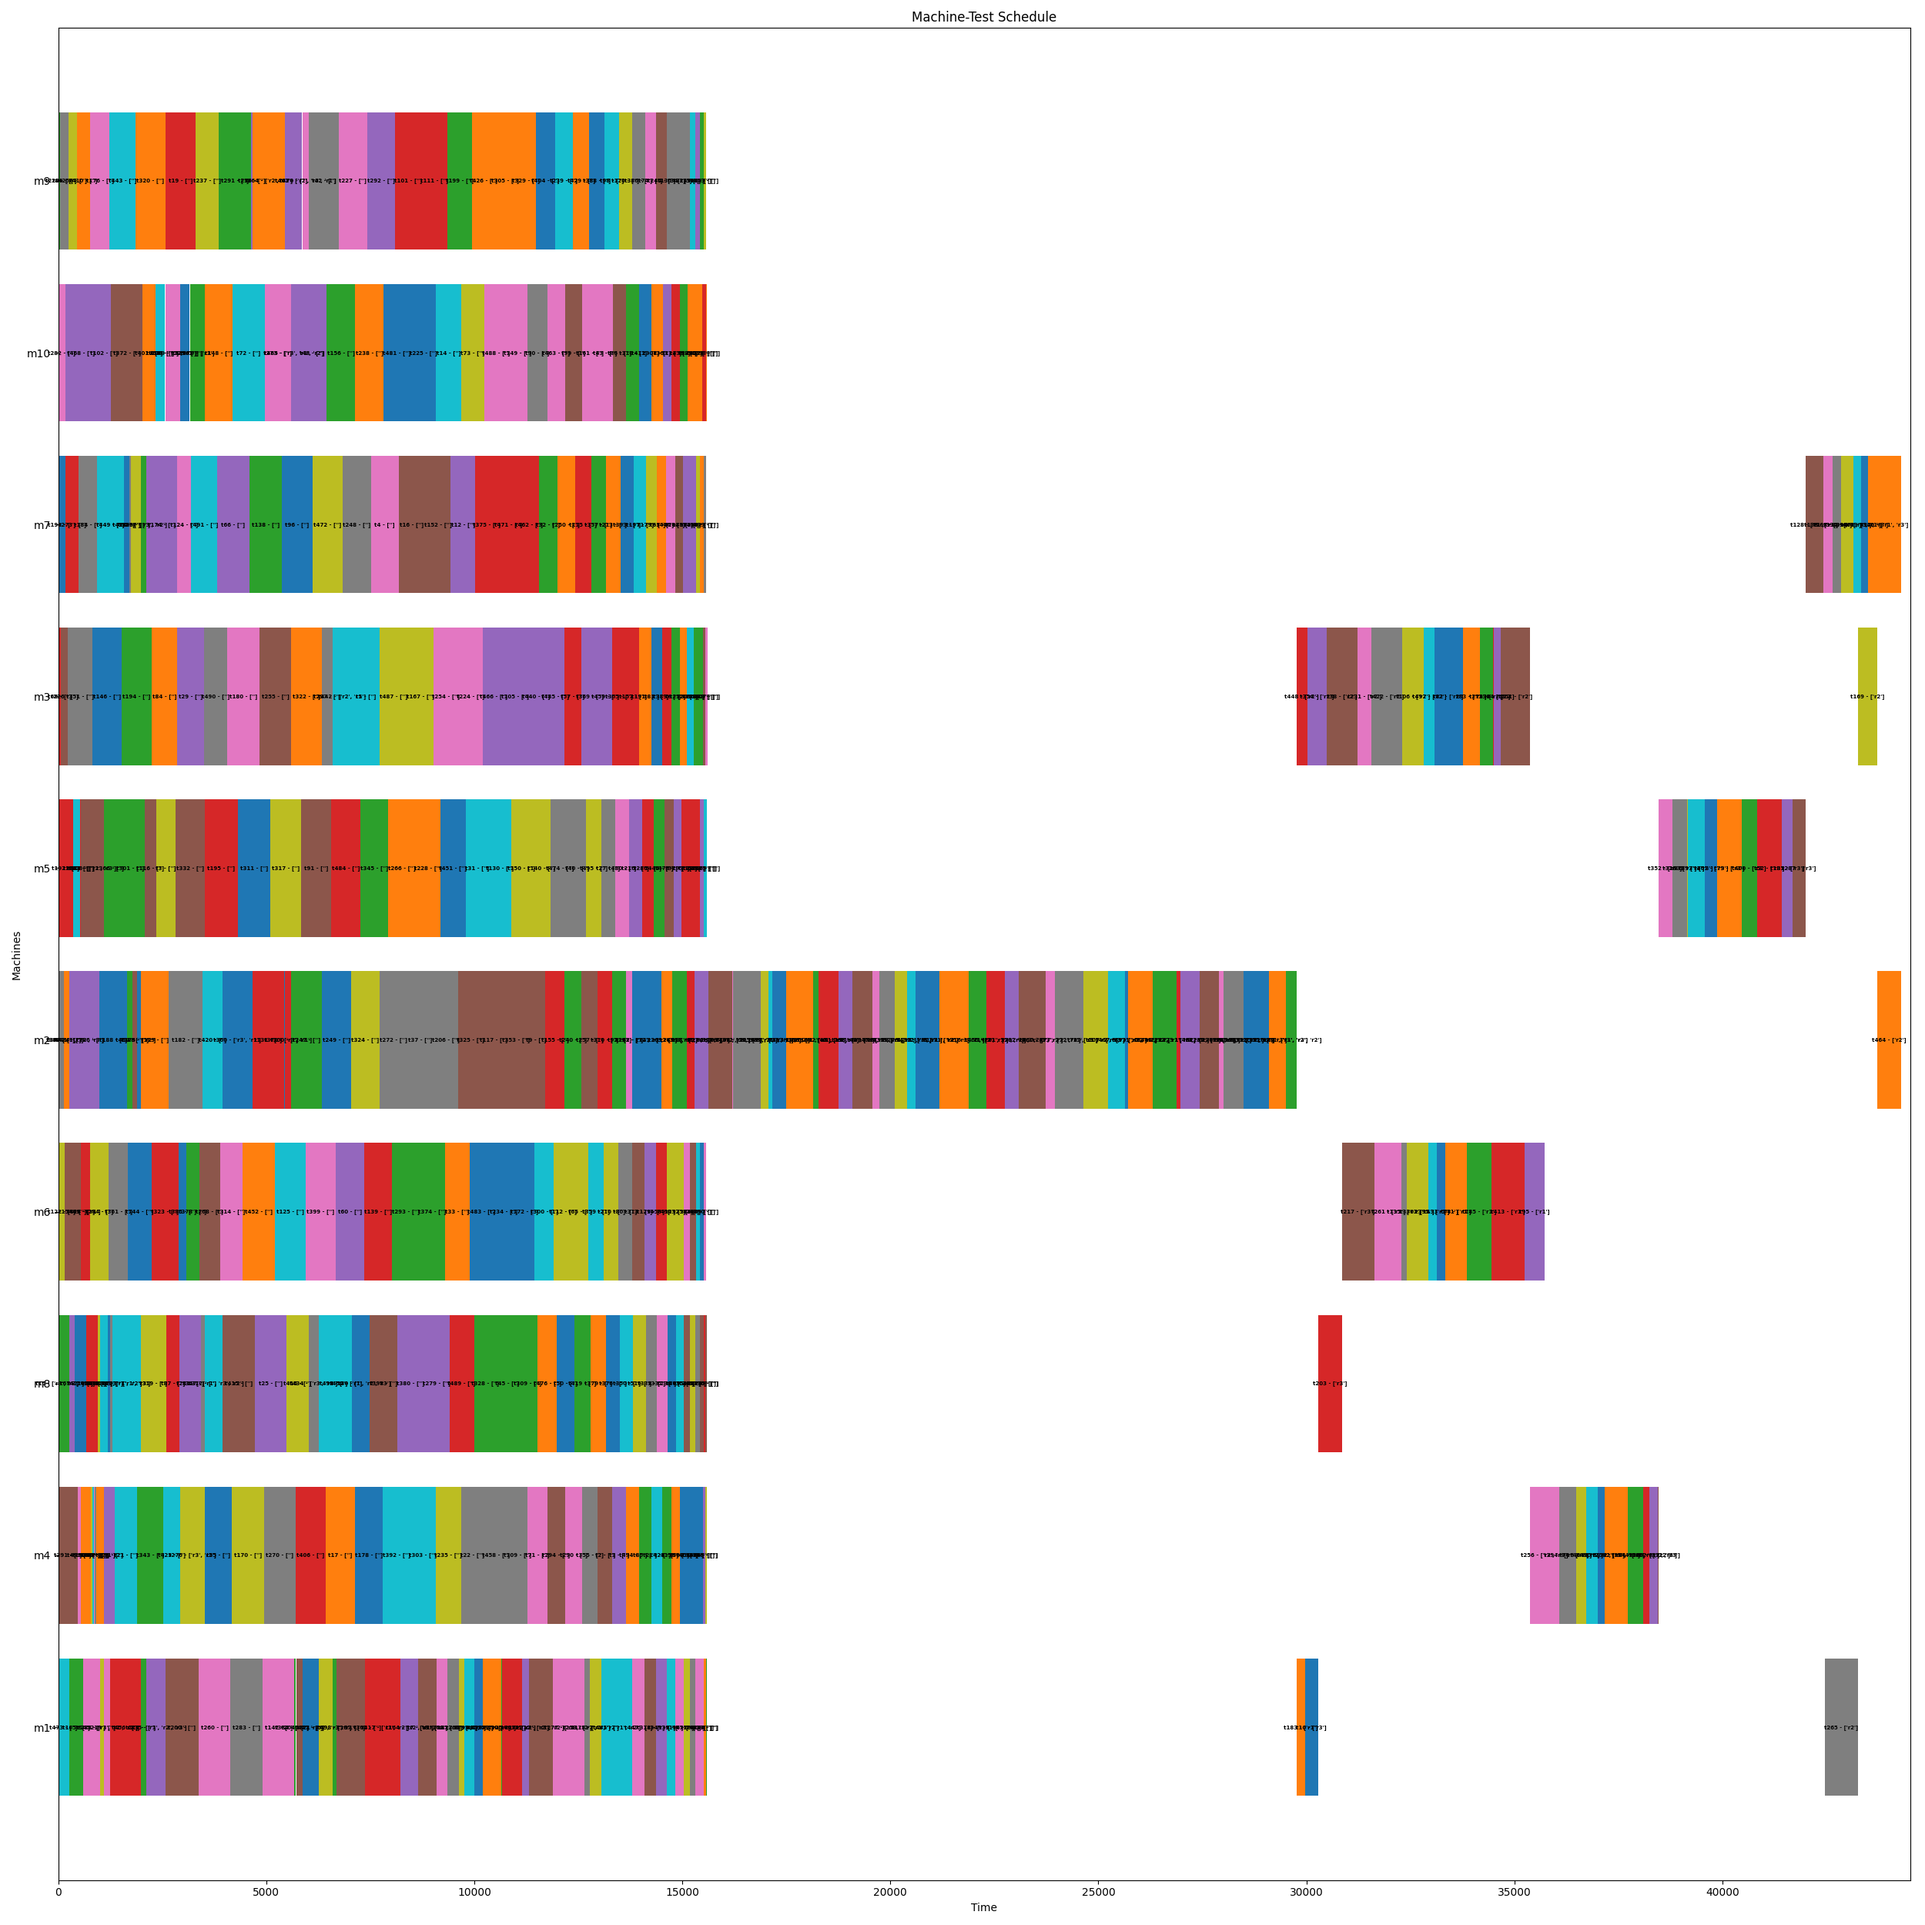
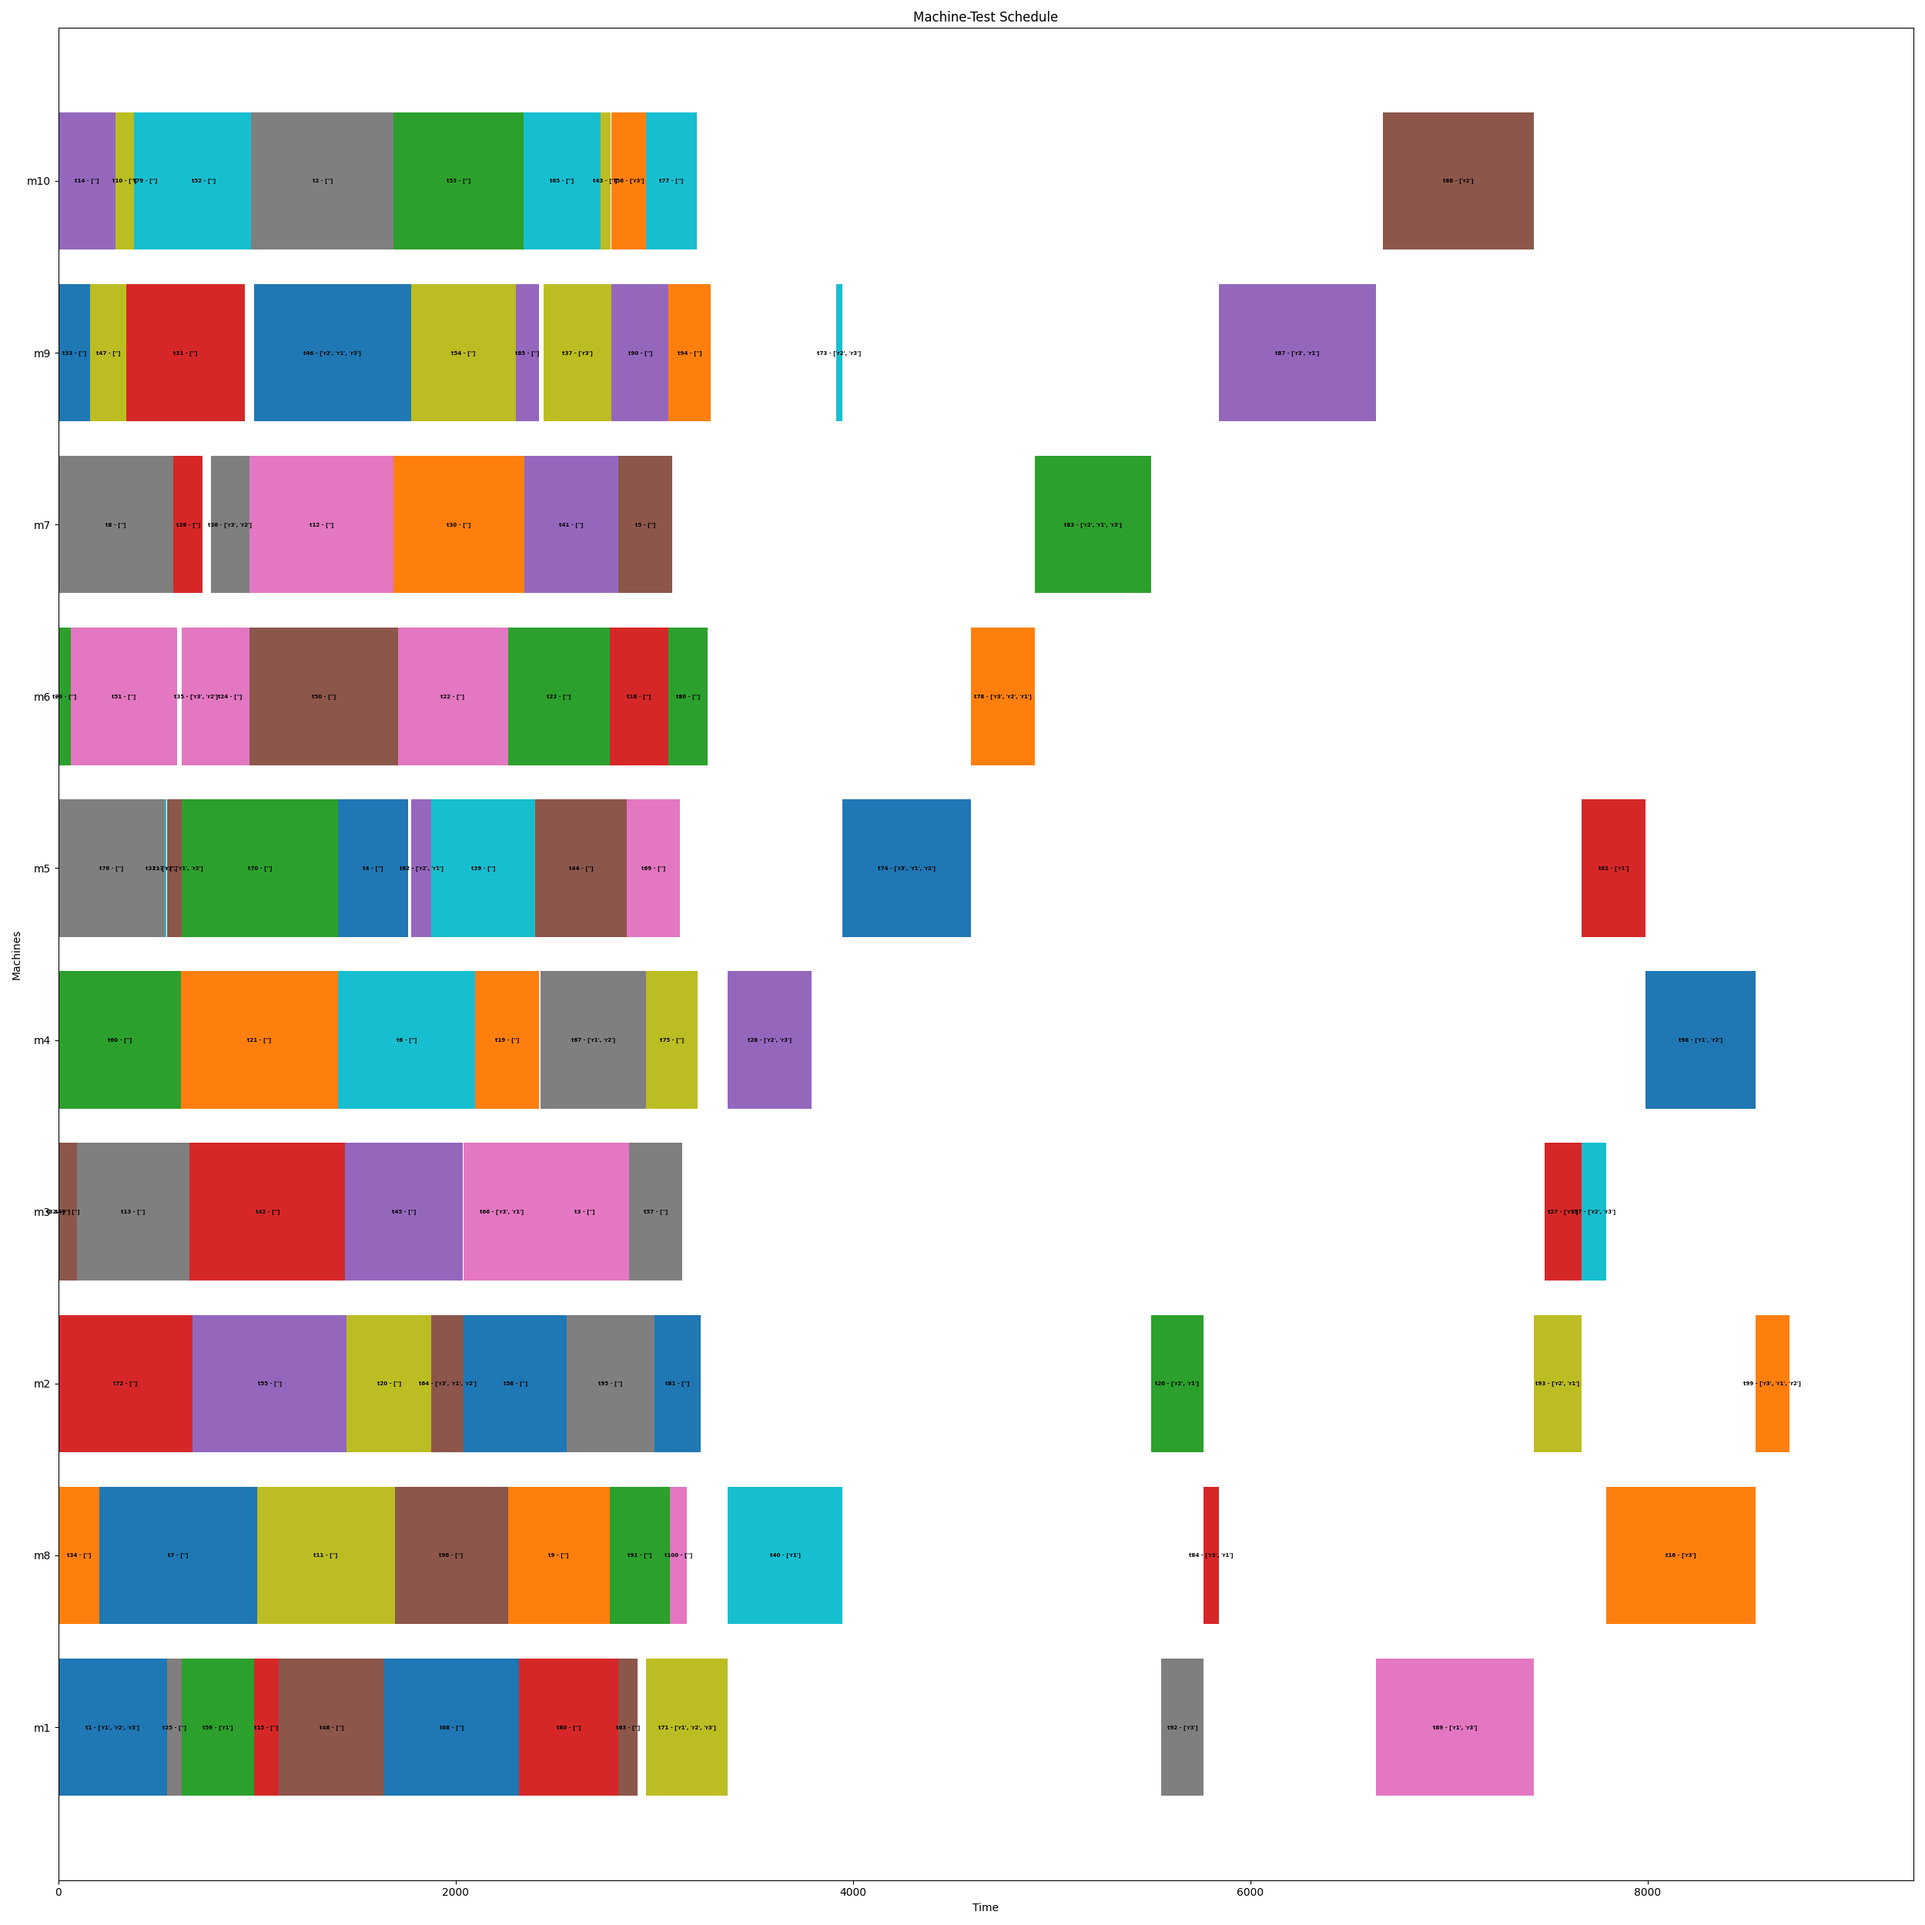
time limit added: in this way we limit the time the Minizinc model can run - it can't be larger than the reamining time

diff --git a/mainGreedyFinal.py b/mainGreedyFinal.py
@@ -1,6 +1,7 @@
 import sys 
 import re                       # for regular expressions to parse the input data
 from minizinc import Instance, Model, Solver
+from datetime import timedelta  # for the time limit in the minizinc model
 import time
 import heapq                    # for the heap data structure used in the greedy algorithm
 from itertools import groupby   # for grouping the data in the greedy algorithm
@@ -16,15 +17,15 @@ class Problem:
     def __init__(self, input_file_name, output_file_name):
         self.input_file_name = input_file_name
         self.output_file_name = output_file_name
-        
-        
+    
+    
     @staticmethod
     def parse_instance():
         # Check if the correct number of arguments is provided
         if len(sys.argv) != 3:
             print(f"Usage: python3.11 {sys.argv[0]} <input-file-name> <output-file-name>")
             sys.exit(1)
-
+        
         # Get the input and output file names from the command-line arguments
         input_file_name = sys.argv[1]
         output_file_name = sys.argv[2]
@@ -390,7 +391,7 @@ class Problem:
                 self.pairs_ordering_same_resource_with_superpose.append(pair)
         
         
-        ##! Bu pre-assigning the machines to the tests with the heursitic of miniming the use of the overlapping tasks in the same machine condition in
+        ##! By pre-assigning the machines to the tests with the heursitic of miniming the use of the overlapping tasks in the same machine condition in
         ##! in Minizinc model, we break further simmetries and cut further the search space
         
         self.machines_pre_assigned = [0 for _ in range(self.num_tests_modelA)]
@@ -412,7 +413,7 @@ class Problem:
     
     
     
-    def load_modelA(self, new_baseline, solver_name="cbc"):
+    def load_modelA(self, new_baseline, time_limit,solver_name="cbc"):
         
         ## load the model and the solver
         model = Model('./model/modelAFinal.mzn')
@@ -444,12 +445,19 @@ class Problem:
         instance["nb_pairs_ordering_same_resource_with_superpose"] = len(self.pairs_ordering_same_resource_with_superpose)
         instance["pairs_ordering_same_resource_with_superpose"] = self.pairs_ordering_same_resource_with_superpose
         
-        ## solve the model
-        result = instance.solve()
         
-        self.makespan_A = result["makespan"]
-        self.machines_assigned_A = result["machine_assigned"]
-        self.start_times_A = result["start"]
+        ## solve the model with time limit
+        time_limit_minizinc = timedelta(seconds=time_limit)
+        result = instance.solve(timeout=time_limit_minizinc)
+        
+        try:
+            self.makespan_A = result["makespan"]
+            self.machines_assigned_A = result["machine_assigned"]
+            self.start_times_A = result["start"]
+        except:
+            print(f"Given the time limit, {round(time_limit,3)} secs, the model did not find a solution for the actual value hyperparameter!")
+            print(f"Best solution found in file {self.output_file_name}.txt")
+            quit()
     
     
     
@@ -723,7 +731,6 @@ class Problem:
                 output_file.write(f"{num_tasks}, {tasks_machine})\n")
         
         print(f"Output file created: {self.output_file_name}")
-        print()
 
 
 
@@ -747,15 +754,14 @@ class Problem:
         ax.set_xlabel('Time')
         ax.set_ylabel('Machines')
         ax.set_title('Machine-Test Schedule')
-
-        limit_max = max(start_times) + max(durations)
-        ax.set_xlim(0, limit_max)
+        
+        limit_max = max(start_times[i] + durations[i] for i in range(len(machines)))
+        ax.set_xlim(0, limit_max + 100)
         
         plt.tight_layout()
         plt.savefig(self.output_file_name.split('.')[0] + '.png')
         
         print(f"Plot file created: {self.output_file_name.split('.')[0] + '.png'}")
-        print()
 
 
 
@@ -766,21 +772,22 @@ if __name__ == "__main__":
     ##e hyperparameter variable
     nb_max_non_ordering = 0
     
-    max_time = 60 * 5 # 5 minutes
+    max_time = 60 * 4.6 # 4.6 minutes in secs
+    correction_time = 3 # 3 secs
+    
     total_make_span = 0
     old_make_span = 0
     
-    counter_same_makespan = 0
+    
     counter_nb_zero = 0
     
     counter_t500_larger = 0
     thereshold_t500_larger = 65 ##! 65 tests that cannot overlap in time
     
-    time_partial = time.time()
-    
+    time_partial = time.time() - time_start
     
     ##! iterate over the hyperparameter till the solution is not further improved
-    while time_partial > max_time:
+    while time_partial < max_time:
         
         problem = Problem.parse_instance()
         problem.read_input_data()
@@ -814,41 +821,39 @@ if __name__ == "__main__":
             nb_max_non_ordering = 0
             counter_t500_larger = 1
         else:
-            problem.load_modelA(total_make_span)
+            time_limit = max_time - (time.time() - time_start) - correction_time
+            
+            if time_limit < 0:
+                time_limit = 1e-3 ##! 1 ms
+            
+            problem.load_modelA(total_make_span, time_limit)
         
         
         now_makespan = problem.gready_algorithm_modelB()
         
+        print(f"Remaining time to end: {round((max_time - (time.time() - time_start) - correction_time)/60, 3)} mins")
+        
         # print("Is solution:", problem.checker_solution())
         
+        print()
         problem.create_output_file()
         problem.create_plot_file()
-        
-        time_partial = time.time()
-        
-        print("Nb elements in model A: ", problem.num_tests_modelA)
-        print("Time elapsed: ", round((time_partial - time_start)/60,3), " mins")
         print()
         
-        
-        old_make_span = total_make_span
         total_make_span = now_makespan
-
         
-        if old_make_span == total_make_span:
-            counter_same_makespan += 1
-            
-
-        ##! convergence: if the same value for makespan is obtained twice, we stop the search
-        ##! or the maximum number of tests in model A has been reached and we the solution cannot be further improved
-        if nb_max_non_ordering > problem.num_tests_modelA or counter_same_makespan == 2:
+        ##! break the loop if the next solution passes the time limit. However, there was still room for improvement 
+        ###! (hyperparameter is smaller than the nb total of tests from part A)
+        ##! or break the loop if the the maximum number of tests in model A has been reached and the solution cannot be further improved
+        if nb_max_non_ordering > problem.num_tests_modelA:
             break
         
+        
+        ##! update the hyperparameter
         if nb_max_non_ordering < 10:
             nb_max_non_ordering += 2
         else:
             nb_max_non_ordering += 1
-
         
         
-    print("Total time elapsed: ", round((time.time() - time_start)/60,3), " mins")
+        time_partial = time.time() - time_start
